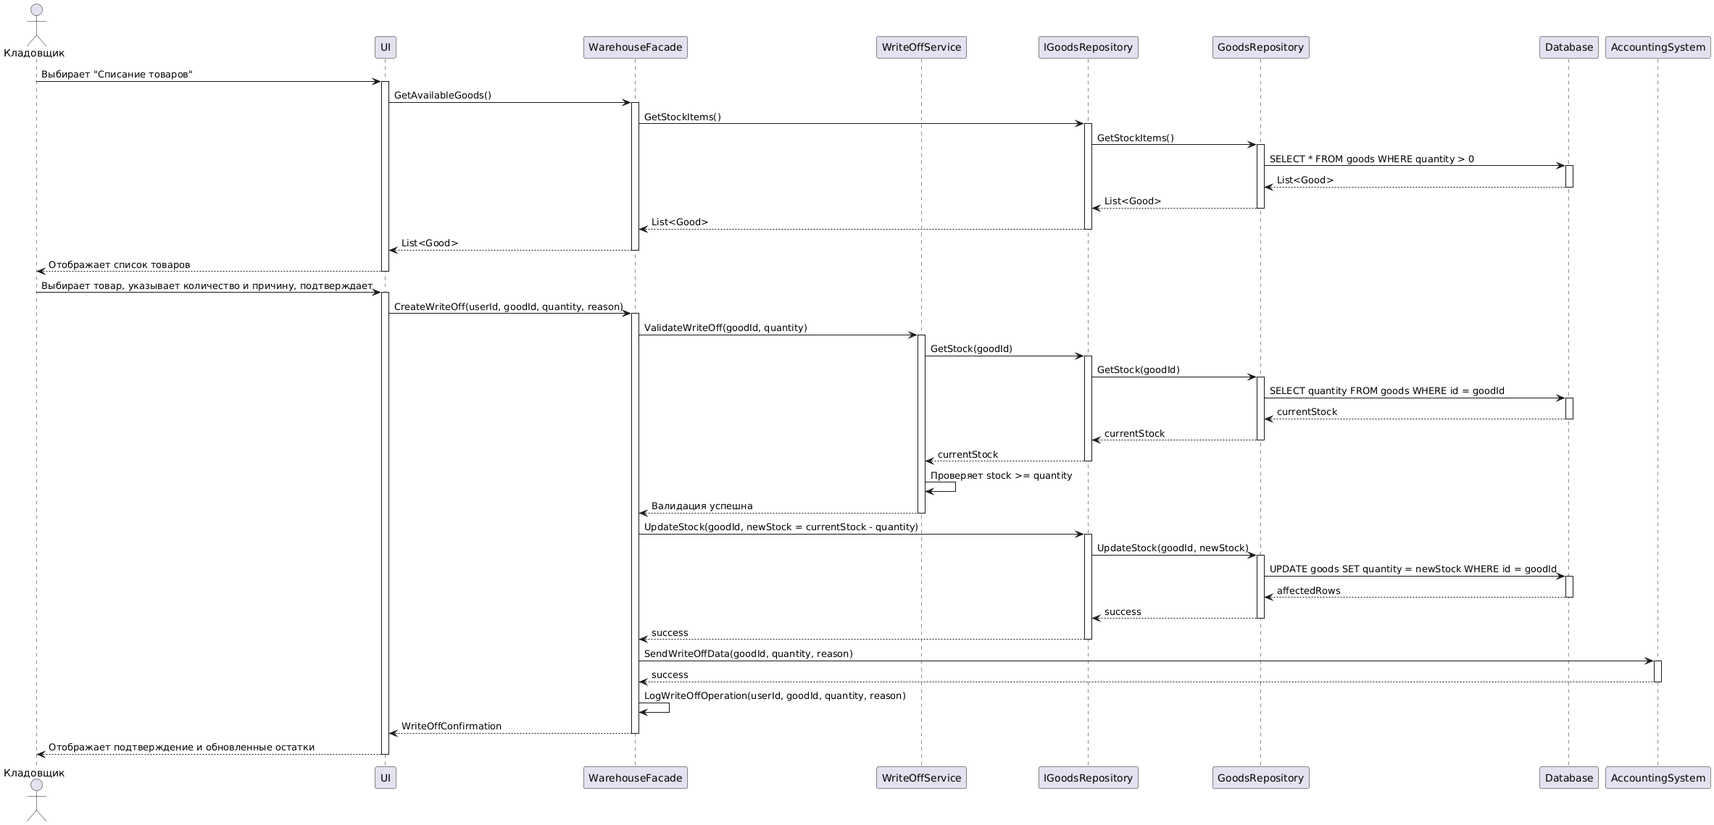
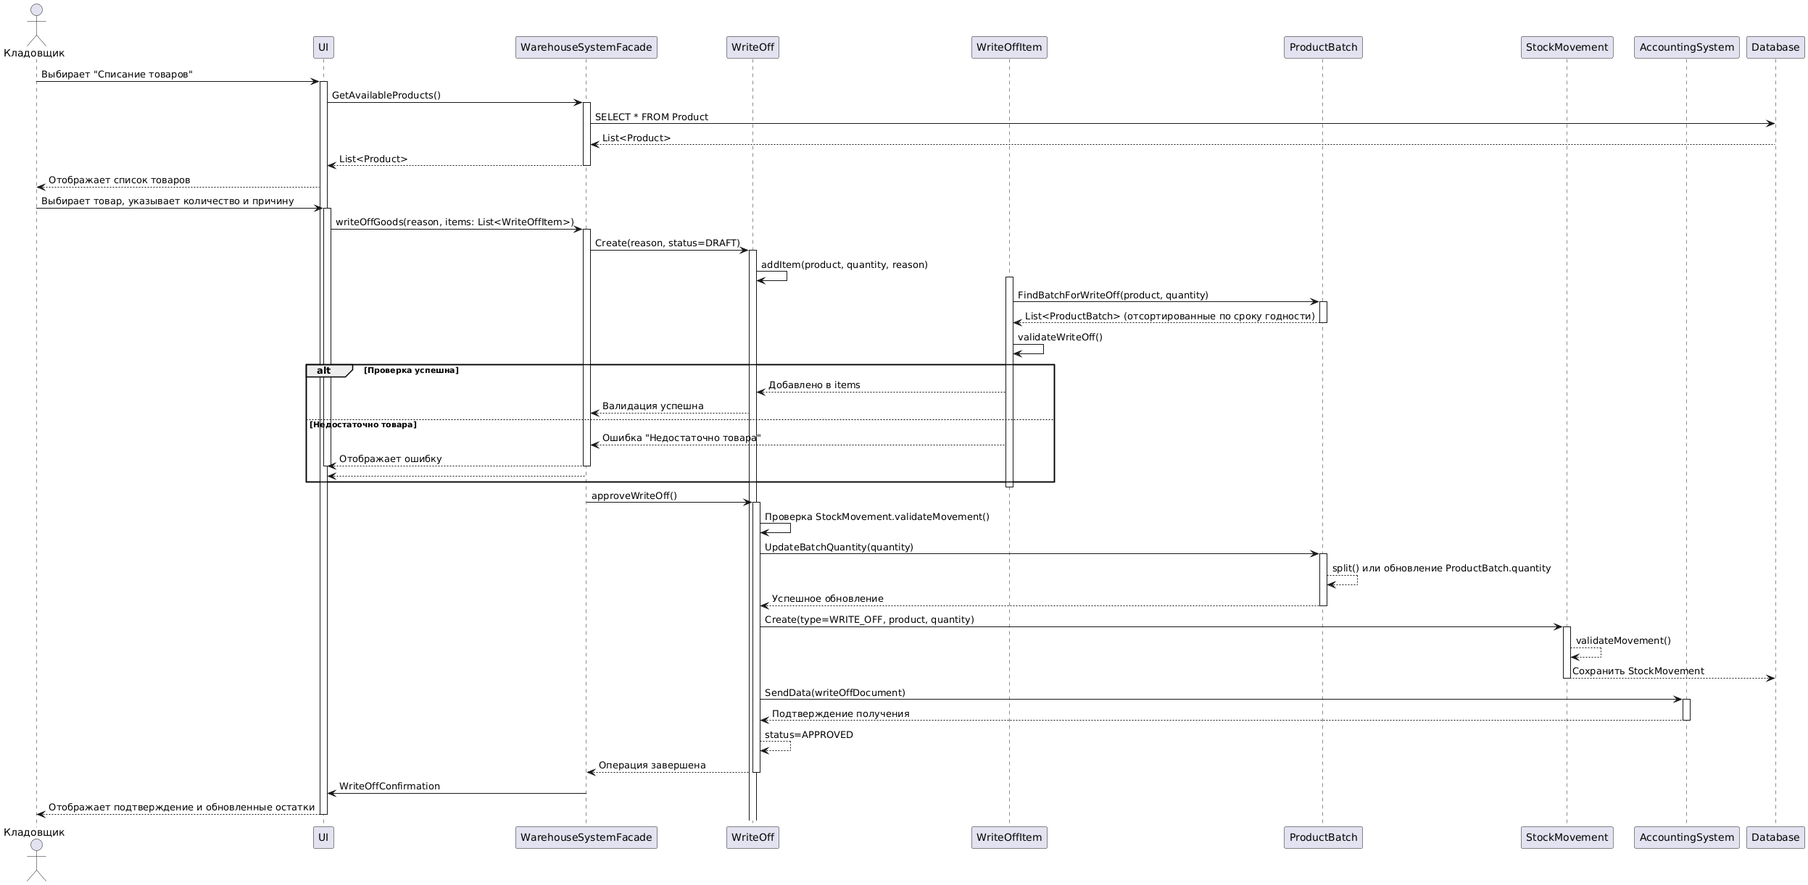
Улучшено списание товаров

diff --git a/Списание товаров(Кирюхин А.А.)/Описание.md b/Списание товаров(Кирюхин А.А.)/Описание.md
@@ -1,74 +1,71 @@
-# Рамки: Информационная система склада
-
-## Сценарий: Списание товаров
-
+**Рамки:** Информационная система склада  
+**Сценарий:** Списание товаров  
 **Уровень:** Задача, определенная пользователем  
-**Основной исполнитель:** Кладовщик
+**Основной исполнитель:** Кладовщик  
 
-## Заинтересованные лица и их требования
+**Заинтересованные лица и их требования**  
+Кладовщик:  
+- Хочет быстро списать товар из конкретной партии с указанием причины (брак, истечение срока годности, повреждение).  
+- Требует мгновенного обновления остатков партии после списания.  
+- Нуждается в подтверждении успешной операции с номером документа списания.  
+Система учета:  
+- Должна получать данные о списании в формате, совместимом с бухгалтерским ПО.  
+- Требует передачи артикула, количества, стоимости (рассчитанной по партии), причины списания и номера документа.  
 
-### Кладовщик:
-- Хочет быстро списать товар с указанием причины (брак, истечение срока годности, повреждение).
-- Требует мгновенного обновления остатков после списания.
-- Нуждается в подтверждении успешной операции.
+**Предусловия**  
+- Пользователь авторизован как Кладовщик.  
+- Товар существует в системе и имеет хотя бы одну партию с положительным остатком.  
+- Система настроена с перечнем причин списания (брак, просрочка, повреждение).  
 
-### Система учета:
-- Должна получать данные о списании в формате, совместимом с бухгалтерским ПО.
-- Требует передачи артикула, количества, стоимости и причины списания.
+**Результаты (Постусловия)**  
+- Остатки выбранной партии товара обновлены.  
+- Создан документ списания (WriteOff) со статусом APPROVED.  
+- Зафиксировано движение товара (StockMovement типа WRITE_OFF) для аудита.  
+- Данные о списании переданы в Систему учета.  
+- Кладовщик видит номер документа списания, обновленные остатки партии и подтверждение операции.  
 
-## Предусловия
-- Пользователь авторизован как Кладовщик.
-- Товар существует в системе и отображен в интерфейсе.
-- Система настроена с перечнем причин списания (брак, просрочка, повреждение).
+**Основной успешный сценарий**  
+1. Кладовщик в интерфейсе выбирает раздел «Списание товаров».  
+2. Система отображает список партий товаров с указанием срока годности, остатка и причины списания.  
+3. Кладовщик выбирает партию, указывает количество и причину списания (выпадающий список).  
+4. Система проверяет:  
+   - Наличие достаточного количества в выбранной партии.  
+   - Корректность причины (для «просрочки» проверяет `ProductBatch.isExpired()`).  
+   - Автоматически рассчитывает стоимость списания на основе цены партии.  
+5. Система создает документ списания (WriteOff) в статусе DRAFT.  
+6. Кладовщик подтверждает операцию нажатием «Подтвердить списание».  
+7. Система:  
+   - Обновляет остаток партии (`ProductBatch.quantity`), при необходимости разделяет партию через `split()`.  
+   - Создает запись движения (`StockMovement` с типом `WRITE_OFF`).  
+   - Отправляет данные в Систему учета (артикул, количество, стоимость, причина, номер документа).  
+8. Кладовщику отображается уведомление «Списание №[номер] выполнено» и обновленные остатки партии.  
 
-## Результаты (Постусловия)
-- Остатки товара в системе обновлены.
-- Данные о списании переданы в Систему учета.
-- Кладовщик видит актуальный баланс и подтверждение операции.
+**Расширения (альтернативные потоки)**  
+1. **Недостаточно товаров в партии**  
+   - Система обнаруживает нехватку остатков в выбранной партии.  
+   - Отображается ошибка: «Недостаточно товара в партии. Доступно: [X] единиц».  
+   - Кладовщик выбирает другую партию или корректирует количество.  
 
-## Основной успешный сценарий
-1. Кладовщик в интерфейсе выбирает раздел «Списание товаров».
-2. Система отображает список товаров на складе с фильтрацией по артикулу/категории.
-3. Кладовщик выбирает товар, указывает количество и причину списания (выпадающий список).
-4. Система проверяет:
-   - Достаточность остатков на складе.
-   - Корректность заполнения обязательных полей.
-5. При успешной проверке:
-   - Система обновляет остатки в базе данных.
-   - Формирует данные для передачи в Систему учета.
-   - Система учета получает данные.
-6. Кладовщику отображается уведомление «Списание выполнено» и обновленный список остатков.
+2. **Ошибка передачи данных в Систему учета**  
+   - Система не может отправить данные из-за сетевой ошибки.  
+   - Документ списания переводится в статус «Ожидает синхронизации».  
+   - Администратор вручную повторяет отправку в разделе «Ожидающие синхронизации».  
 
-## Расширения (альтернативные потоки)
+**Специальные требования**  
+- **Валидация в реальном времени:**  
+  - При выборе причины «просрочка» система фильтрует только просроченные партии.  
+  - Стоимость списания рассчитывается автоматически на основе цены из `ProductBatch`.  
+- **Интеграция с Системой учета:**  
+  - Передача данных с шифрованием.  
+  - Обязательные поля: артикул, количество, стоимость, причина, номер документа списания, дата операции.  
+- **Аудит:**  
+  - В логах сохраняются: время операции, пользователь, товар, партия, количество, причина, номер документа списания.  
+- **Частичное списание:**  
+  - При списании части партии система автоматически создает новую партию через `ProductBatch.split()`.  
 
-### 1. Недостаточно товаров для списания
-- Система обнаруживает, что запрашиваемое количество превышает остатки.
-- Отображается ошибка: «Недостаточно товара. Доступно: [X] единиц».
-- Кладовщик корректирует количество или отменяет операцию.
-
-### 2. Ошибка передачи данных в Систему учета
-- Система не может отправить данные из-за сетевой ошибки.
-- Формируется задача в разделе «Ожидающие синхронизации».
-- Администратор вручную повторяет отправку при восстановлении связи.
-
-## Специальные требования
-
-### Валидация в реальном времени:
-- Проверка срока годности при выборе причины «просрочка».
-- Автоматическое заполнение стоимости списания на основе данных из системы.
-
-### Интеграция с Системой учета:
-- Шифрование данных при передаче.
-
-### Уведомления:
-- Подтверждение операции в интерфейсе.
-
-### Аудит:
-- Логирование операции с указанием времени, пользователя и причины.
-
-## Частота использования
-- Списание по браку/просрочке: Высокая (ежедневно, среднее количество операций в день).
-- Повторная синхронизация с Системой учета: Низкая (1–2 раза в неделю при ошибках).
+**Частота использования**  
+- Списание по браку/просрочке: Высокая (ежедневно, среднее количество операций в день).  
+- Повторная синхронизация с Системой учета: Низкая (1–2 раза в неделю при ошибках).  
 
 ## Открытые вопросы
 - Какие поля обязательны для передачи в Систему учета?

diff --git a/Списание товаров(Кирюхин А.А.)/Диаграмма последовательности.md b/Списание товаров(Кирюхин А.А.)/Диаграмма последовательности.md
@@ -2,108 +2,85 @@
 
 ```
 @startuml
-actor Кладовщик
-
+actor Кладовщик as Actor
 participant UI
-participant WarehouseFacade
-participant WriteOffService
-participant "IGoodsRepository" as IGoodsRepo
-participant "GoodsRepository" as GoodsRepo
+participant WarehouseSystemFacade as Facade
+participant WriteOff as WriteOffDoc
+participant WriteOffItem as WriteOffItem
+participant ProductBatch as Batch
+participant StockMovement as Movement
+participant AccountingSystem as Accounting
 participant Database
-participant "AccountingSystem" as Accounting
 
-Кладовщик -> UI: Выбирает "Списание товаров"
+Actor -> UI: Выбирает "Списание товаров"
 activate UI
 
-UI -> WarehouseFacade: GetAvailableGoods()
-activate WarehouseFacade
+UI -> Facade: GetAvailableProducts()
+activate Facade
+Facade -> Database: SELECT * FROM Product
+Database --> Facade: List<Product>
+Facade --> UI: List<Product>
+deactivate Facade
 
-WarehouseFacade -> IGoodsRepo: GetStockItems()
-activate IGoodsRepo
+UI --> Actor: Отображает список товаров
 
-IGoodsRepo -> GoodsRepo: GetStockItems()
-activate GoodsRepo
-
-GoodsRepo -> Database: SELECT * FROM goods WHERE quantity > 0
-activate Database
-
-Database --> GoodsRepo: List<Good>
-deactivate Database
-
-GoodsRepo --> IGoodsRepo: List<Good>
-deactivate GoodsRepo
-
-IGoodsRepo --> WarehouseFacade: List<Good>
-deactivate IGoodsRepo
-
-WarehouseFacade --> UI: List<Good>
-deactivate WarehouseFacade
-
-UI --> Кладовщик: Отображает список товаров
-
-deactivate UI
-
-Кладовщик -> UI: Выбирает товар, указывает количество и причину, подтверждает
+Actor -> UI: Выбирает товар, указывает количество и причину
 activate UI
 
-UI -> WarehouseFacade: CreateWriteOff(userId, goodId, quantity, reason)
-activate WarehouseFacade
+UI -> Facade: writeOffGoods(reason, items: List<WriteOffItem>)
+activate Facade
 
-WarehouseFacade -> WriteOffService: ValidateWriteOff(goodId, quantity)
-activate WriteOffService
+Facade -> WriteOffDoc: Create(reason, status=DRAFT)
+activate WriteOffDoc
+WriteOffDoc -> WriteOffDoc: addItem(product, quantity, reason)
+activate WriteOffItem
 
-WriteOffService -> IGoodsRepo: GetStock(goodId)
-activate IGoodsRepo
+WriteOffItem -> Batch: FindBatchForWriteOff(product, quantity)
+activate Batch
+Batch --> WriteOffItem: List<ProductBatch> (отсортированные по сроку годности)
+deactivate Batch
 
-IGoodsRepo -> GoodsRepo: GetStock(goodId)
-activate GoodsRepo
+WriteOffItem -> WriteOffItem: validateWriteOff() 
+alt Проверка успешна
+  WriteOffItem --> WriteOffDoc: Добавлено в items
+  WriteOffDoc --> Facade: Валидация успешна
+else Недостаточно товара
+  WriteOffItem --> Facade: Ошибка "Недостаточно товара"
+  Facade --> UI: Отображает ошибку
+  deactivate Facade
+  deactivate UI
+  return
+end
+deactivate WriteOffItem
 
-GoodsRepo -> Database: SELECT quantity FROM goods WHERE id = goodId
-activate Database
+Facade -> WriteOffDoc: approveWriteOff()
+activate WriteOffDoc
+WriteOffDoc -> WriteOffDoc: Проверка StockMovement.validateMovement()
+WriteOffDoc -> Batch: UpdateBatchQuantity(quantity)
+activate Batch
+Batch --> Batch: split() или обновление ProductBatch.quantity
+Batch --> WriteOffDoc: Успешное обновление
+deactivate Batch
 
-Database --> GoodsRepo: currentStock
-deactivate Database
+WriteOffDoc -> Movement: Create(type=WRITE_OFF, product, quantity)
+activate Movement
+Movement --> Movement: validateMovement()
+Movement --> Database: Сохранить StockMovement
+deactivate Movement
 
-GoodsRepo --> IGoodsRepo: currentStock
-deactivate GoodsRepo
-
-IGoodsRepo --> WriteOffService: currentStock
-deactivate IGoodsRepo
-
-WriteOffService -> WriteOffService: Проверяет stock >= quantity
-WriteOffService --> WarehouseFacade: Валидация успешна
-deactivate WriteOffService
-
-WarehouseFacade -> IGoodsRepo: UpdateStock(goodId, newStock = currentStock - quantity)
-activate IGoodsRepo
-
-IGoodsRepo -> GoodsRepo: UpdateStock(goodId, newStock)
-activate GoodsRepo
-
-GoodsRepo -> Database: UPDATE goods SET quantity = newStock WHERE id = goodId
-activate Database
-
-Database --> GoodsRepo: affectedRows
-deactivate Database
-
-GoodsRepo --> IGoodsRepo: success
-deactivate GoodsRepo
-
-IGoodsRepo --> WarehouseFacade: success
-deactivate IGoodsRepo
-
-WarehouseFacade -> Accounting: SendWriteOffData(goodId, quantity, reason)
+WriteOffDoc -> Accounting: SendData(writeOffDocument)
 activate Accounting
-
-Accounting --> WarehouseFacade: success
+Accounting --> WriteOffDoc: Подтверждение получения
 deactivate Accounting
 
-WarehouseFacade -> WarehouseFacade: LogWriteOffOperation(userId, goodId, quantity, reason)
+WriteOffDoc --> WriteOffDoc: status=APPROVED
+WriteOffDoc --> Facade: Операция завершена
+deactivate WriteOffDoc
 
-WarehouseFacade --> UI: WriteOffConfirmation
-deactivate WarehouseFacade
+Facade -> UI: WriteOffConfirmation
+deactivate Facade
 
-UI --> Кладовщик: Отображает подтверждение и обновленные остатки
+UI --> Actor: Отображает подтверждение и обновленные остатки
 deactivate UI
 @enduml
 ```
